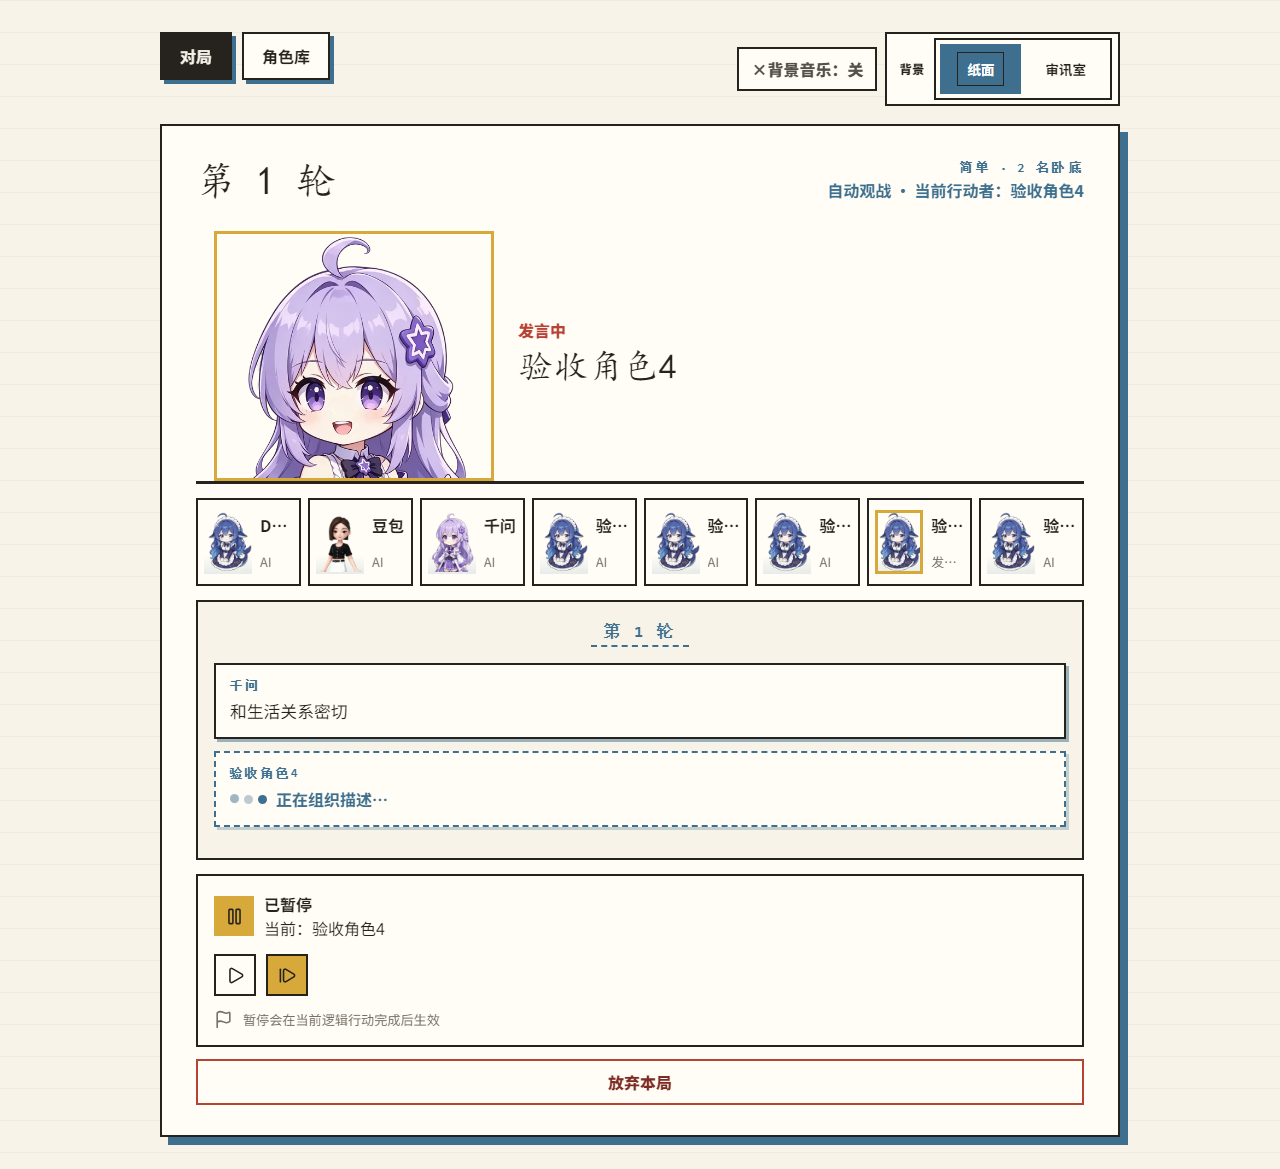
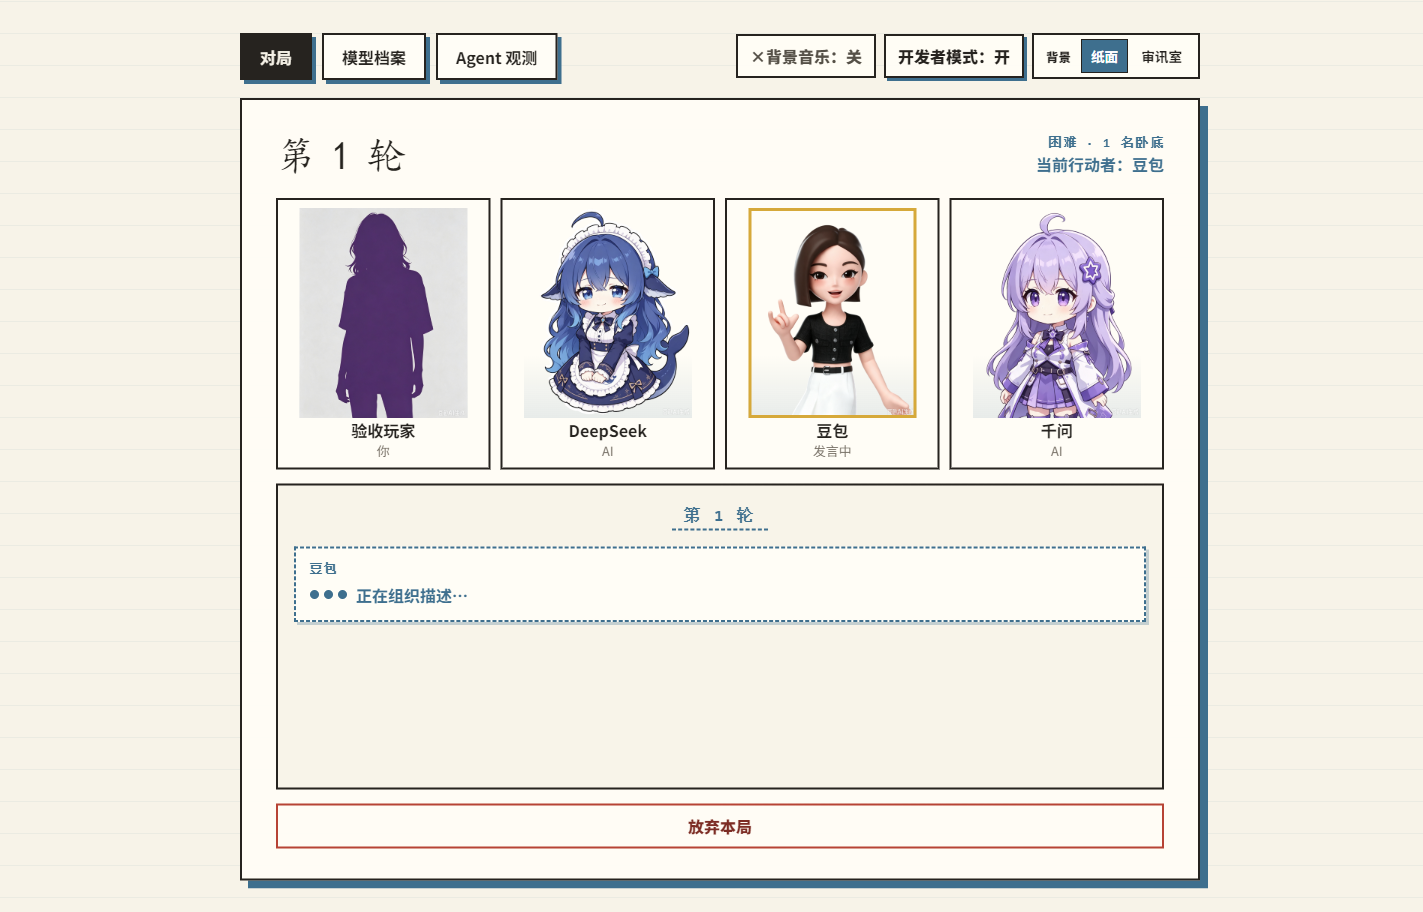
feat: 谁是卧底封面更换为四人对局真实截图
- 封面与 Fig.01 换为真人 + DeepSeek/豆包/千问的四人对局验收截图
- 图注同步改为四人对局口径

Changed region(s): [[0.125, 0.0, 0.9062, 0.9825]]

diff --git a/content.js b/content.js
@@ -102,7 +102,7 @@ window.PORTFOLIO_CONTENT = (() => {
       tags: ["State Machine", "Context Projection", "Schema", "Recovery", "SSE"],
       cover: { type: "image", src: "assets/project-covers/undercover-game.png", tone: "teal" },
       screens: [
-        { src: "assets/project-covers/undercover-game.png", caption: "Fig. 01｜真实对局观战：多个模型玩家共享规则，私有词牌互相隔离" },
+        { src: "assets/project-covers/undercover-game.png", caption: "Fig. 01｜四人对局：真人 + DeepSeek / 豆包 / 千问，私有词牌互相隔离" },
         { src: "assets/project-covers/undercover-home.png", caption: "Fig. 02｜开局入口：经典 / 猜词模式与词语难度选择" },
       ],
       links: { github: "https://github.com/LBP97541135/sheishiwodi" },
